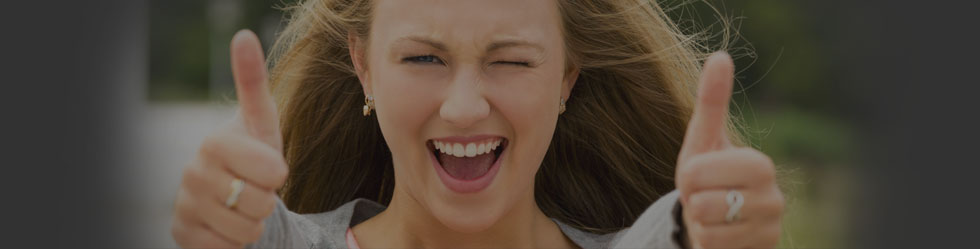
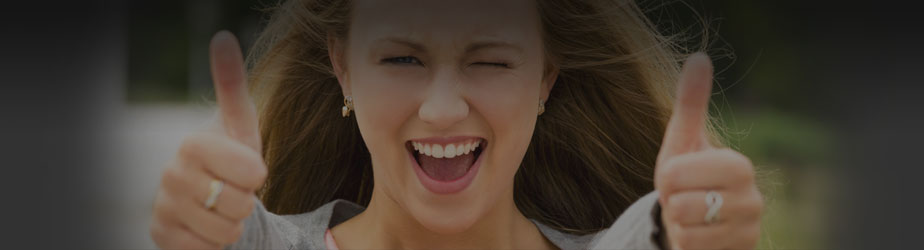
styly

diff --git a/JobsplusUmbraco/css/style.css b/JobsplusUmbraco/css/style.css
@@ -172,6 +172,14 @@ html {
 	box-sizing: border-box;
 }
 
+.vcenter {
+    margin: 0;
+    padding: 0;
+    display: inline-block;
+    vertical-align: middle;
+    float: none;
+}
+
 .dark {
 	/*background: #1c1c1e;*/
 }
@@ -1001,6 +1009,12 @@ nav li > ul > li > ul {
 	text-align: right;
 }
 
+#aBody.subpage #tBody .row {
+	margin: 75px 0px 0px 0px;
+	text-align: right;
+}
+
+
 #tBody .tBody_hlText, #tBody .tBody_hlText p {
 	color: white;
 	text-transform: uppercase;
@@ -1594,15 +1608,15 @@ header .container {
 	background-image:url('/media/layout/bgr-hptop-shadow.png');
 	background-repeat: repeat-x;
 	background-position: top;
-	background-color: transparent;
+	background-color: #323232;
+	/*background-size: 125% auto;*/
 }
 
 #aBody.subpage #tBody {
 	background-image:url('/media/layout/bgr-hptop-subpage.jpg');
 	background-repeat: no-repeat;
-	background-position: top left;
-	background-color: #323232;
-	/*background-size: 125% auto;*/
+	background-position: 15% 1px;
+	background-color: transparent;
 	min-height: 249px;
 }
 
